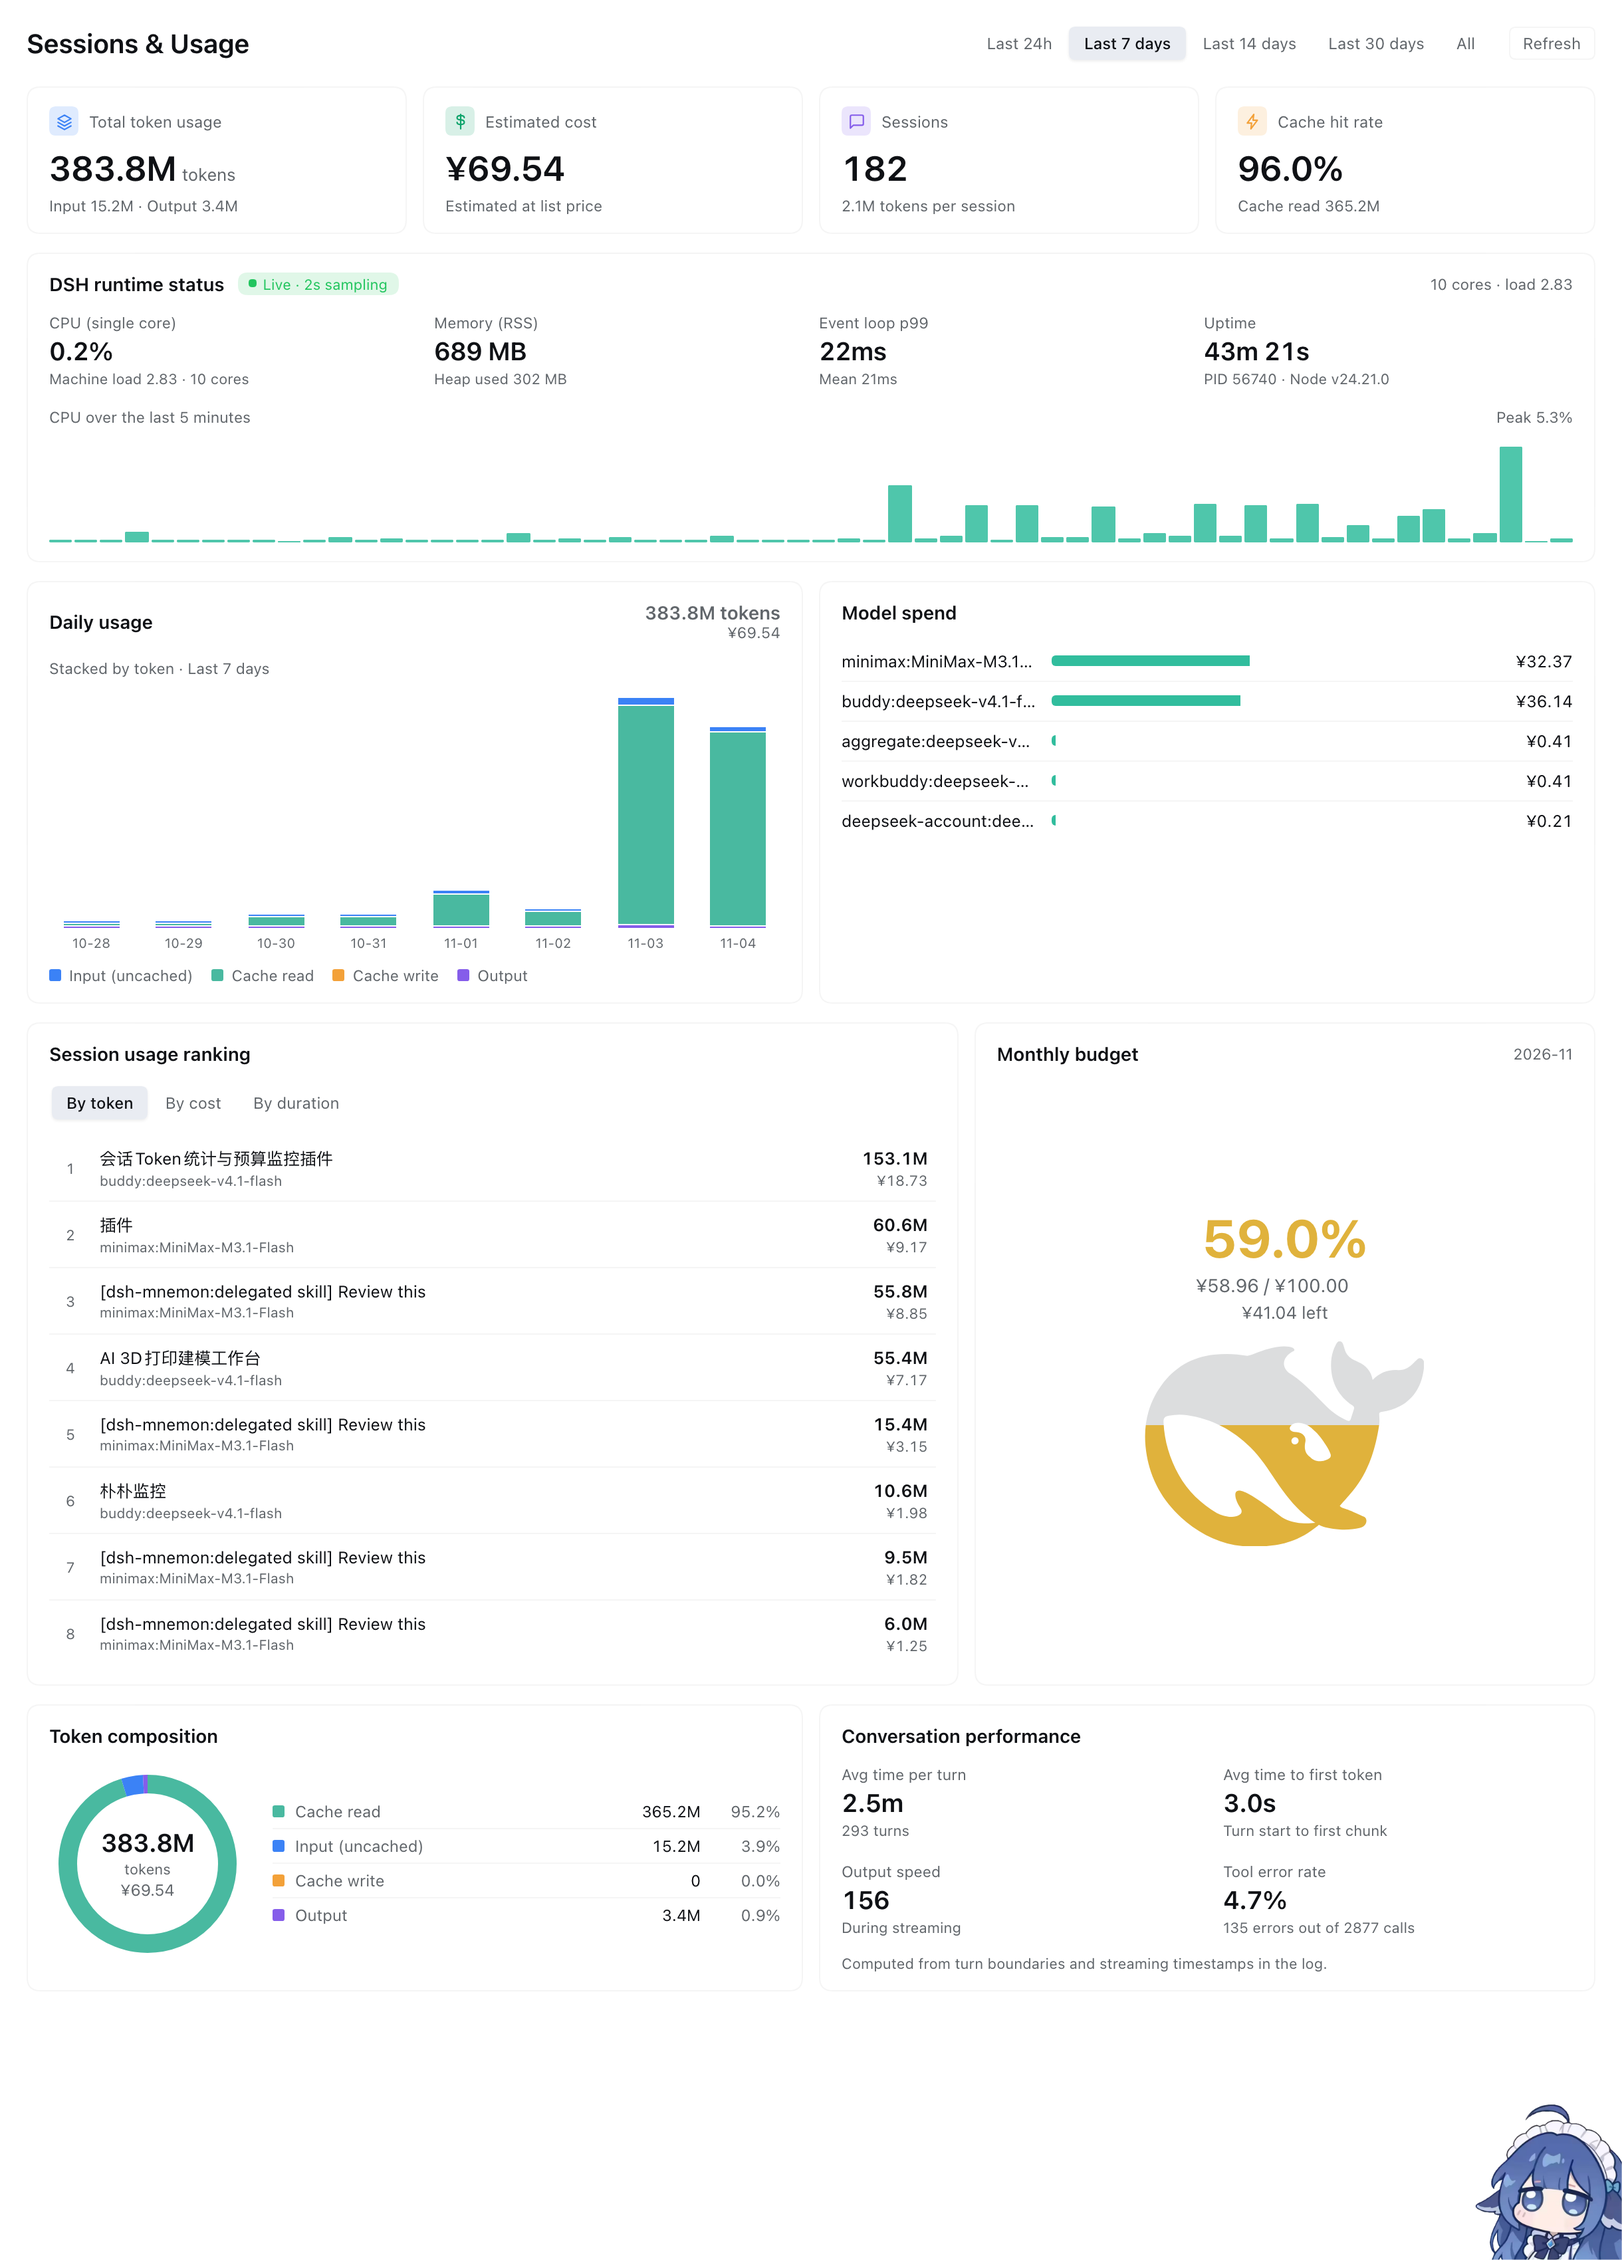
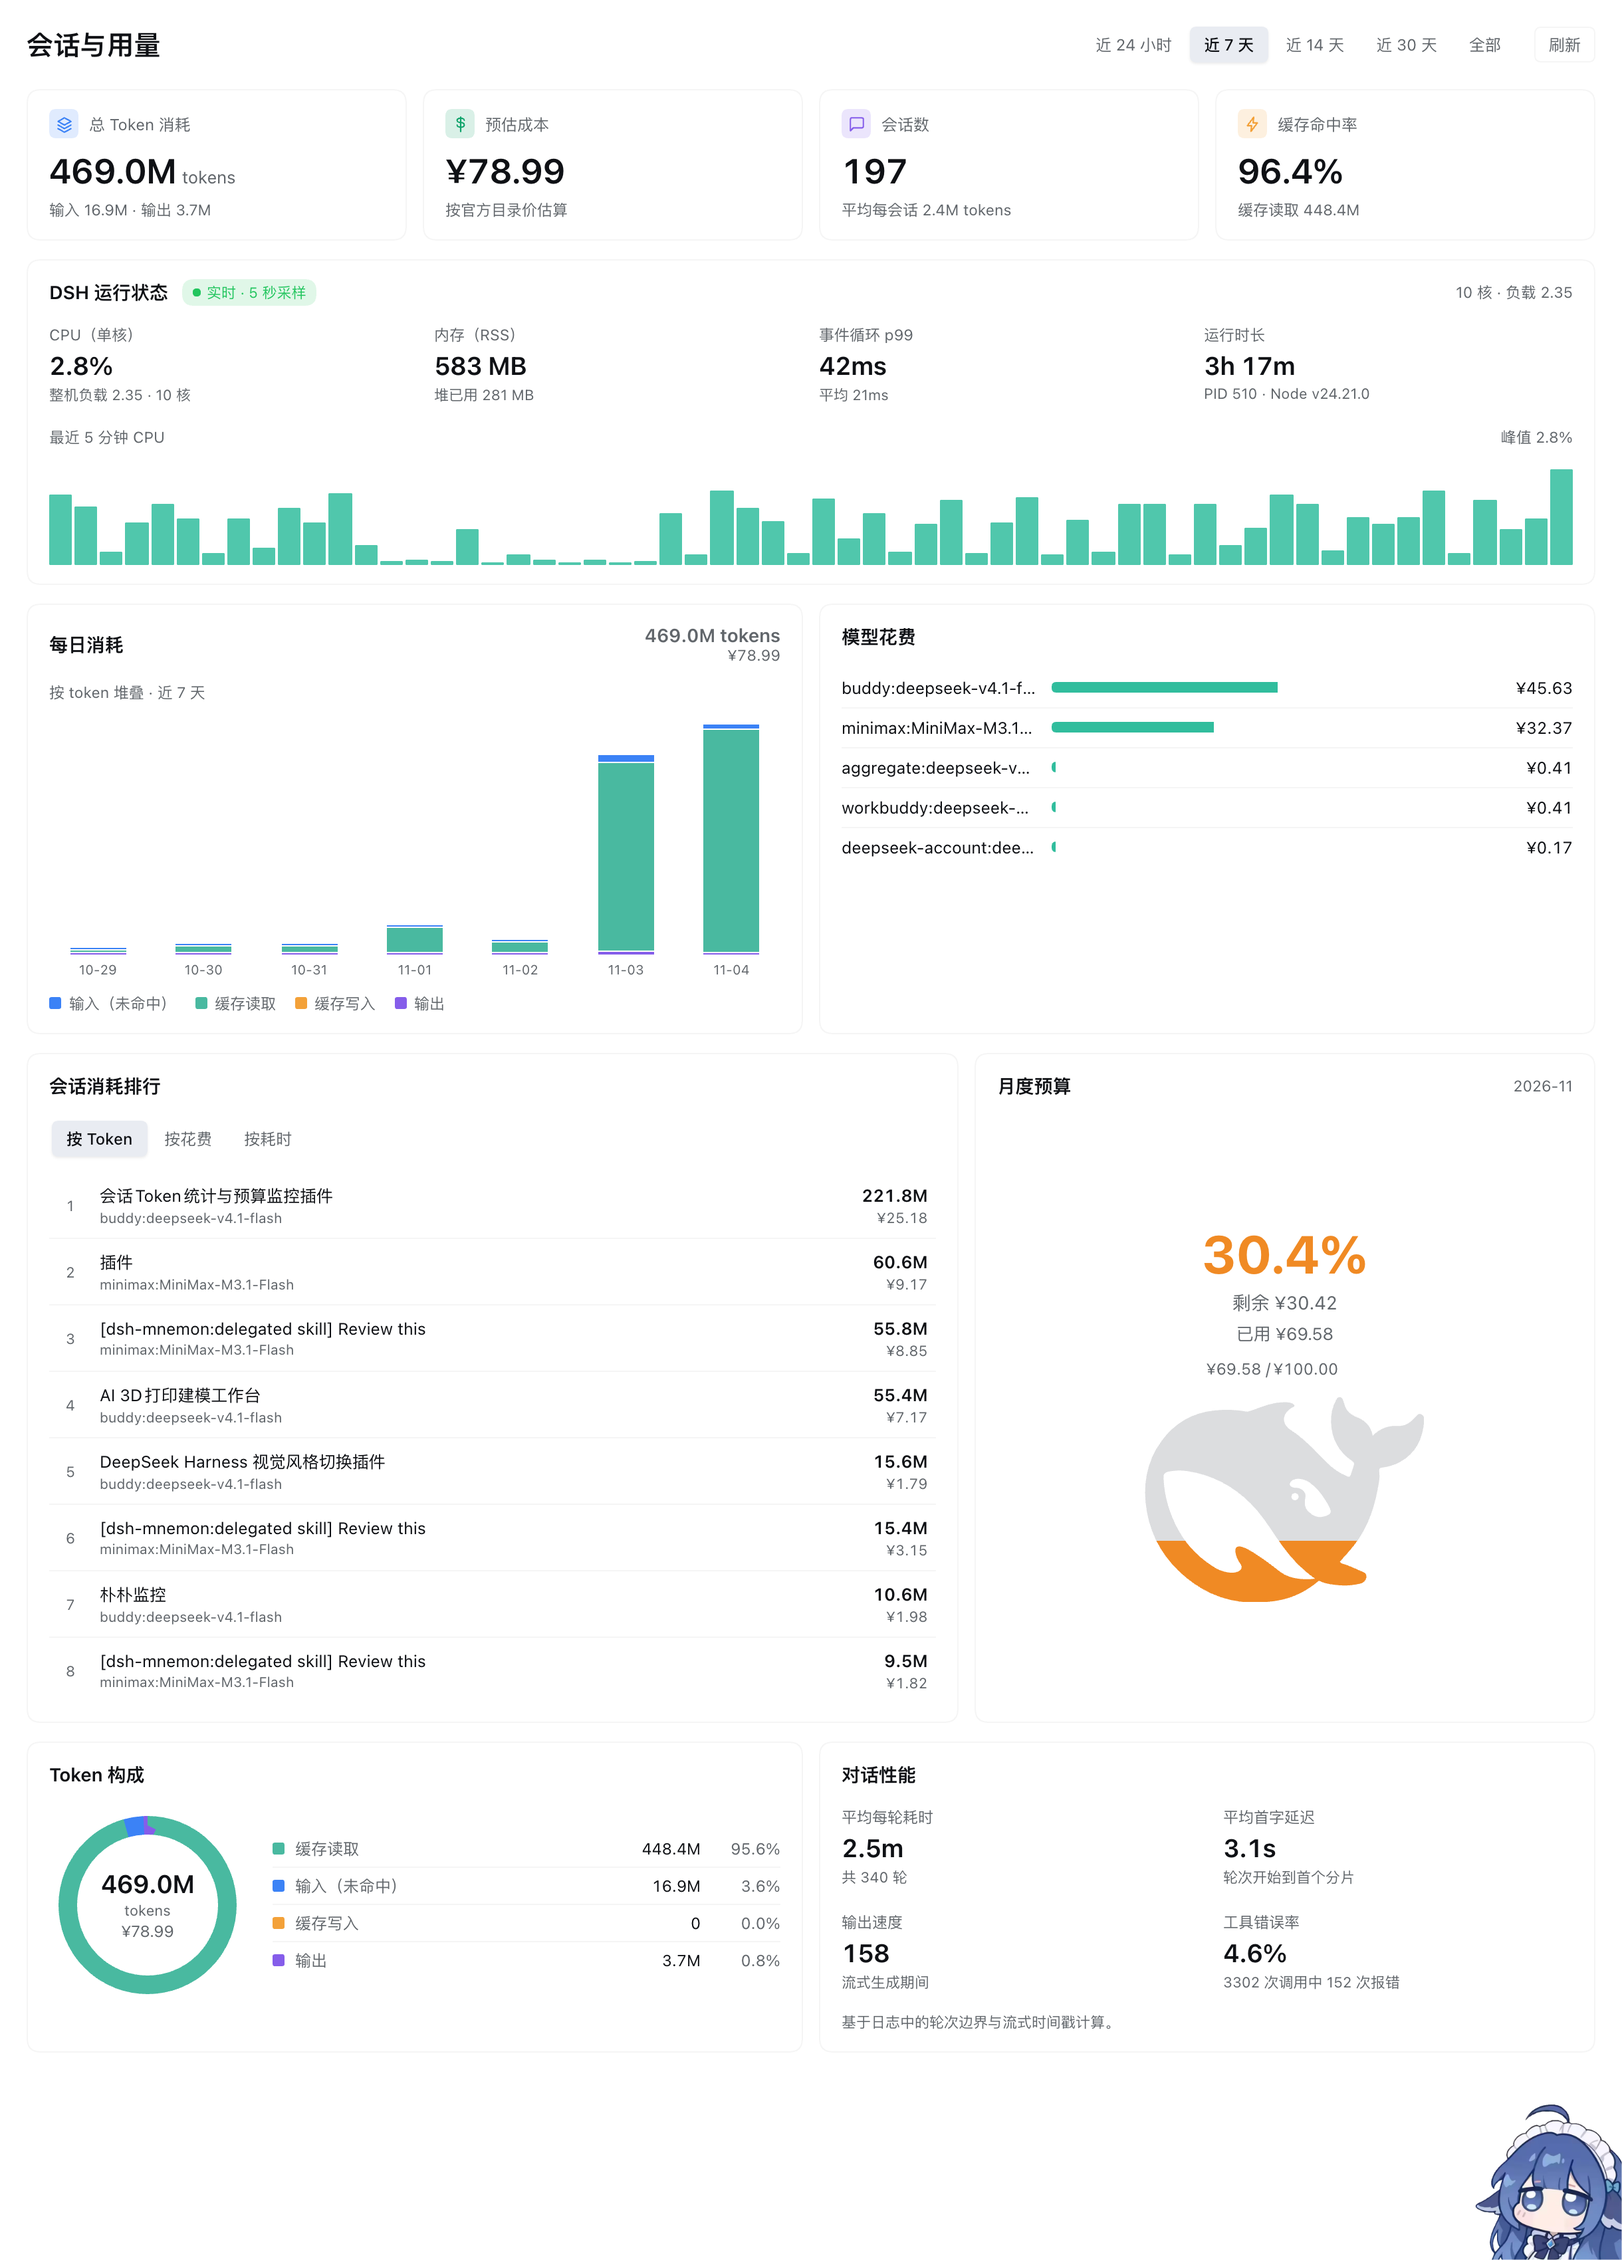
docs: README 预算水位改为剩余额度语义，更新面板截图

diff --git a/README.md b/README.md
@@ -53,14 +53,15 @@ github:Stopning/dsh-usage-stats
 
 - 统计**固定为当前自然月**，不随顶部范围变化
 - 点击金额即可就地编辑上限，回车保存、Esc 取消；值存在插件私有文件里，刷新不丢
-- 鲸鱼水位按 `已用 / 上限` 的比例从底部填充，四档换色：
+- 鲸鱼水位 = **剩余额度**（`1 - 已用 / 上限`）：月初接近满格，花得越多水位越低，颜色随之从黑变绿黄橙红
 
-| 区间 | 颜色 |
+| 剩余比例 | 颜色 |
 |---|---|
-| < 30% | 绿 `#31BD9D` |
-| 30% – 60% | 黄 `#E0B23C` |
-| 60% – 90% | 橙 `#F08A24` |
-| ≥ 90% | 红 `#E2453C` |
+| ≥ 95% | 墨黑（跟随主题前景色） |
+| 95% – 75% | 绿 `#31BD9D` |
+| 75% – 55% | 黄 `#E0B23C` |
+| 55% – 25% | 橙 `#F08A24` |
+| < 25% | 红 `#E2453C` |
 
 ---
 
